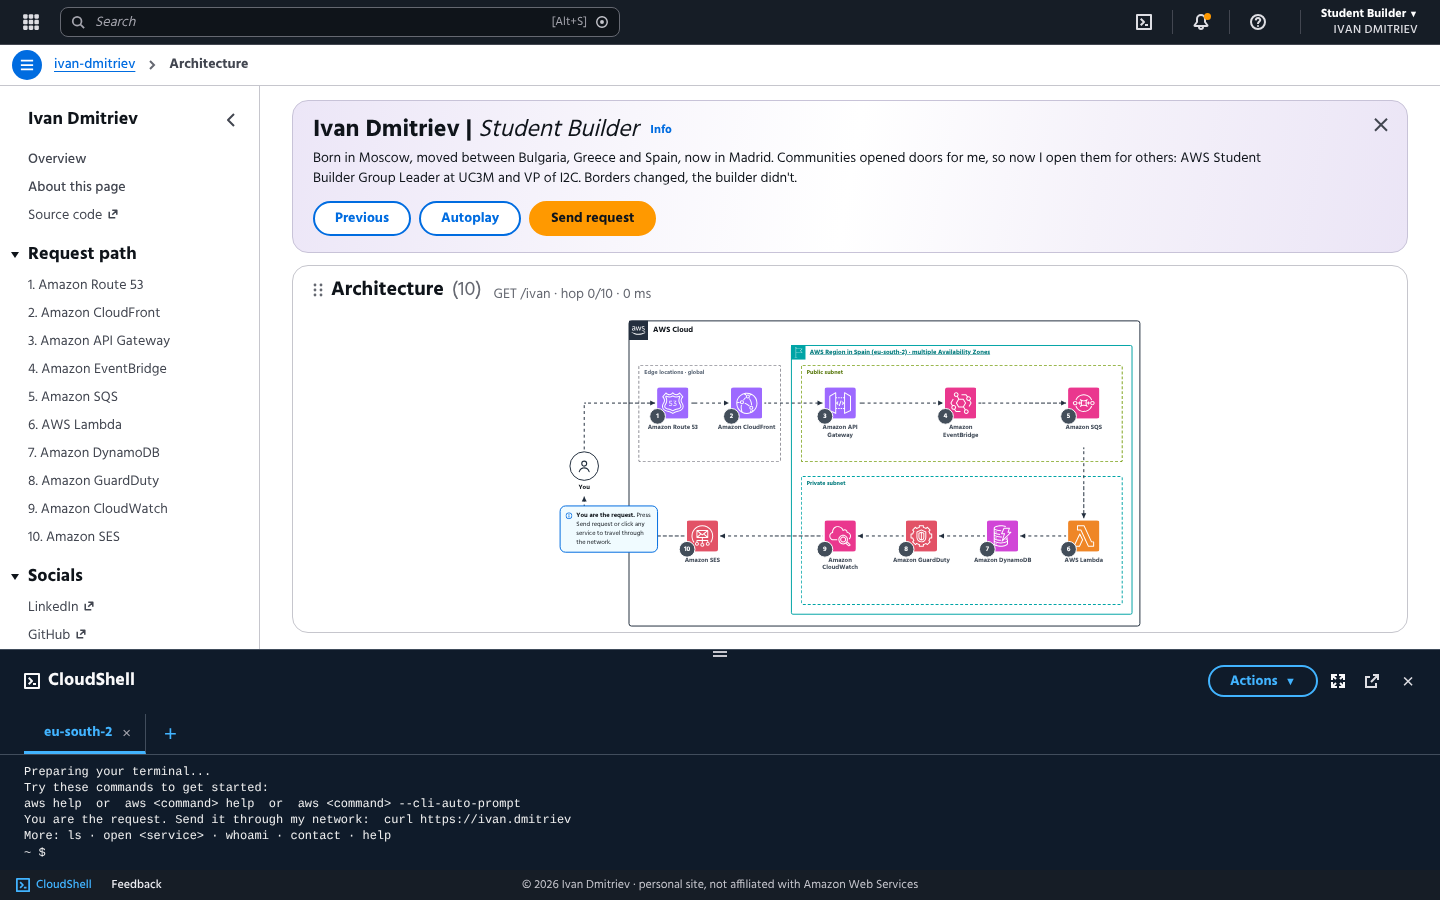
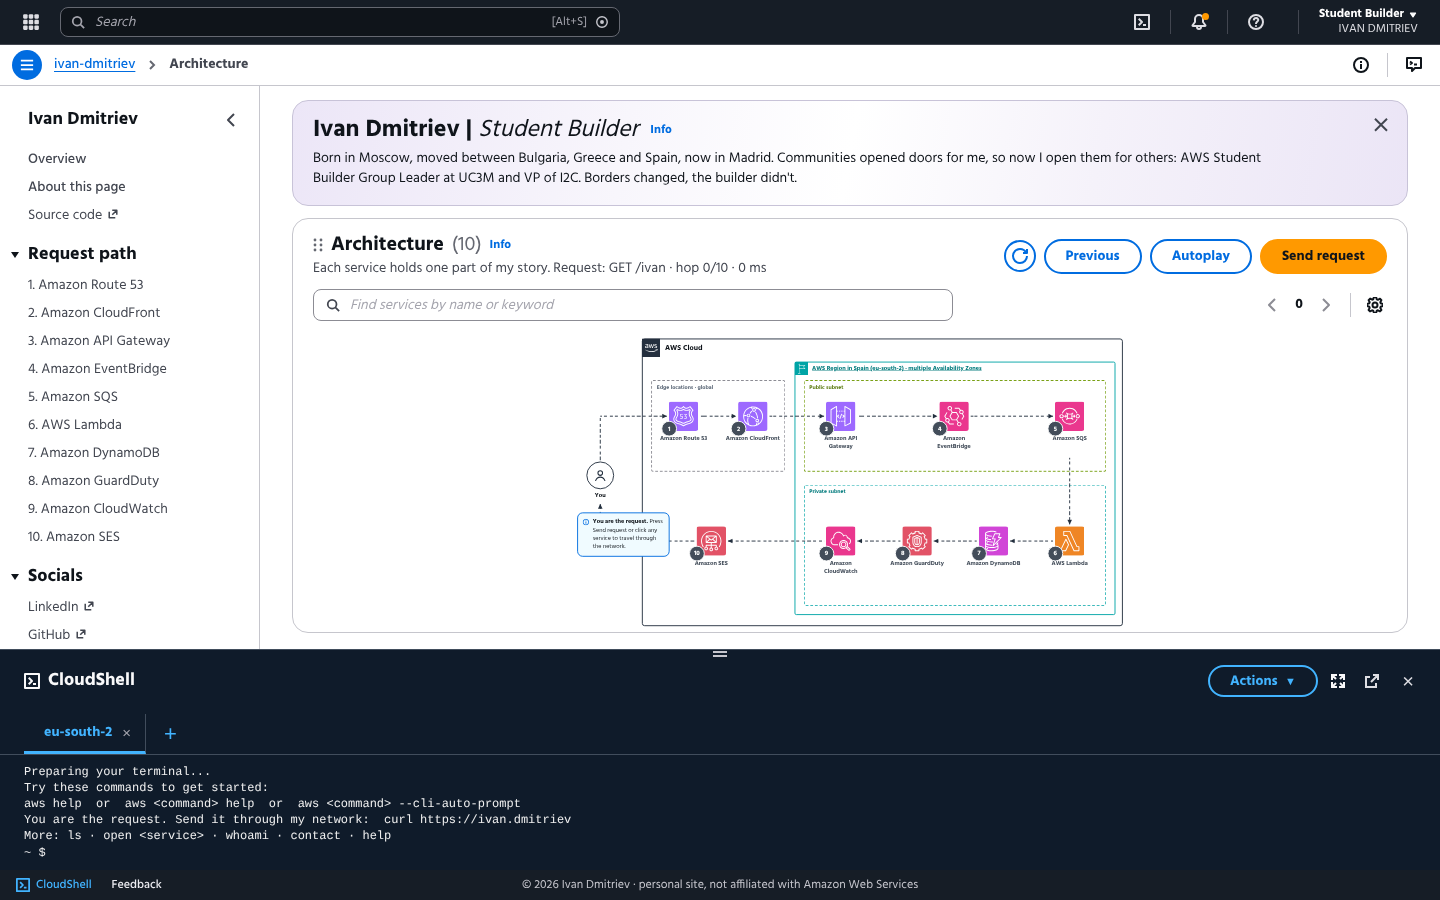
Architecture container as a console table header (actions, filter, pager); breadcrumb bar tools; account caret
Claude-Session: https://claude.ai/code/session_01SpbYpNfqmSStHB3S69pLeV

diff --git a/site/app.js b/site/app.js
@@ -83,7 +83,7 @@ const view = (v) => html`
     </div>
     <span aria-hidden="true" class="hide-m" style="width: 1px; height: 24px; background: #424650; flex: none"></span>
     <div style="position: relative; z-index: 56">
-      <button class="tnav hide-m" onClick=${v.menuAccount} style="background: none; border: 0; cursor: pointer; display: flex; flex-direction: column; align-items: flex-end; padding: 2px 6px; border-radius: 4px; color: #ffffff; font: 700 12px/15px 'Hind', 'Open Sans', sans-serif"><span>Student Builder <span style="font-size: 9px">▼</span></span><span style="font-weight: 500; color: #dedee3; letter-spacing: .02em">IVAN DMITRIEV</span></button>
+      <button class="tnav hide-m" onClick=${v.menuAccount} style="background: none; border: 0; cursor: pointer; display: flex; flex-direction: column; align-items: flex-end; padding: 2px 6px; border-radius: 4px; color: #ffffff; font: 700 12px/15px 'Hind', 'Open Sans', sans-serif"><span style="display: flex; align-items: center; gap: 4px">Student Builder <svg width="10" height="10" viewBox="0 0 16 16" aria-hidden="true"><path d="m8 11 4-6H4l4 6Z" fill="#ffffff" stroke="#ffffff" stroke-width="2" stroke-linejoin="round"></path></svg></span><span style="font-weight: 400; color: #dedee3">IVAN DMITRIEV</span></button>
       ${v.mAccount ? html`
         <div role="menu" style="position: absolute; top: 36px; z-index: 55; background: #ffffff; border-radius: 8px; box-shadow: 0px 1px 1px 1px #e9ebed, 0px 6px 36px #0007161a; padding: 6px 0; right: 0; width: 280px">
           <div style="padding: 8px 16px 10px; border-bottom: 1px solid #ebebf0"><strong style="display: block">Ivan Dmitriev</strong><span style="font-size: 12px; color: #656871">AWS Student Builder Group Leader · UC3M</span></div>
@@ -103,6 +103,10 @@ const view = (v) => html`
     <a href="#" onClick=${v.restart} style="text-decoration: underline; text-underline-offset: 3px">ivan-dmitriev</a>
     <svg width="10" height="12" viewBox="0 0 10 12" aria-hidden="true"><path d="M3 2 L7 6 L3 10" fill="none" stroke="#656871" stroke-width="2"></path></svg>
     <span style="font-weight: 700; color: #424650">Architecture</span>
+    <span style="flex: 1"></span>
+    <button onClick=${v.menuInfo} aria-label="About this page" title="About this page" style="background: none; border: 0; cursor: pointer; padding: 6px; display: flex"><svg width="16" height="16" viewBox="0 0 16 16" fill="none" stroke="#0f141a" stroke-width="2" stroke-linejoin="round" aria-hidden="true"><circle cx="8" cy="8" r="7"></circle><path d="M8 12V7M8 6V4"></path></svg></button>
+    <span aria-hidden="true" style="width: 1px; height: 24px; background: #c6c6cd"></span>
+    <button onClick=${v.toggleTerm} aria-label="CloudShell" title="CloudShell" style="background: none; border: 0; cursor: pointer; padding: 6px; display: flex"><svg width="16" height="16" viewBox="0 0 16 16" fill="none" stroke="#0f141a" stroke-width="2" stroke-linejoin="round" aria-hidden="true"><path d="M1 1h14v10H9l-3 3v-3H1V1Z"></path><path d="M4 4.5l2 1.5-2 1.5M8 7.5h3"></path></svg></button>
   </div>
   <div class="app-body" style="flex: 1 1 auto; min-height: 0; display: flex">
     
@@ -143,19 +147,53 @@ const view = (v) => html`
               </div>
             ` : null}</h1>
           <div style="margin-top: 4px; color: #0f141a; max-width: 980px">Born in Moscow, moved between Bulgaria, Greece and Spain, now in Madrid. Communities opened doors for me, so now I open them for others: AWS Student Builder Group Leader at UC3M and VP of I2C. Borders changed, the builder didn't.</div>
-          <div style="margin-top: 12px"><div style="display: flex; flex-wrap: wrap; gap: 8px">
-          <button class="btnN" onClick=${v.prev} style="min-height: 30px; padding: 4px 20px; border-radius: 20px; border: 2px solid #006ce0; background: #ffffff; color: #006ce0; font: 700 14px 'Hind', 'Open Sans', sans-serif; cursor: pointer">Previous</button>
-          <button class="btnN" onClick=${v.togglePlay} style="min-height: 30px; padding: 4px 20px; border-radius: 20px; border: 2px solid #006ce0; background: #ffffff; color: #006ce0; font: 700 14px 'Hind', 'Open Sans', sans-serif; cursor: pointer">${v.playLabel}</button>
-          <button class="btnP" onClick=${v.primary} style="min-height: 30px; padding: 4px 20px; border-radius: 20px; border: 2px solid #FF9900; background: #FF9900; color: #0f141a; font: 700 14px 'Hind', 'Open Sans', sans-serif; cursor: pointer">${v.primaryLabel}</button>
-        </div></div>
           <button onClick=${v.closeBanner} aria-label="Dismiss" style="position: absolute; right: 14px; top: 12px; background: none; border: 0; cursor: pointer; padding: 4px; display: flex"><svg width="16" height="16" viewBox="0 0 16 16" fill="none" stroke="#424650" stroke-width="2" stroke-linejoin="round" aria-hidden="true"><path d="m2 1.71 12 12M2 13.71l12-12"></path></svg></button>
         </div>
       ` : null}
       
       <section style="flex: 1 1 auto; min-height: 0; display: flex; flex-direction: column; background: #ffffff; border-radius: 16px; border: 1px solid #c6c6cd">
-        <div style="flex: none; padding: 12px 20px 4px; display: flex; flex-wrap: wrap; align-items: baseline; gap: 4px 12px">
-          <h2 style="margin: 0; font-size: 20px; line-height: 24px; font-weight: 700; display: flex; align-items: center; gap: 8px"><svg width="10" height="16" viewBox="0 0 10 16" aria-hidden="true" fill="#656871"><circle cx="2" cy="3" r="1.4"></circle><circle cx="8" cy="3" r="1.4"></circle><circle cx="2" cy="8" r="1.4"></circle><circle cx="8" cy="8" r="1.4"></circle><circle cx="2" cy="13" r="1.4"></circle><circle cx="8" cy="13" r="1.4"></circle></svg>Architecture <span style="font-weight: 400; color: #656871">(10)</span></h2>
-          <span style="color: #656871; font-size: 14px">GET /ivan · hop ${v.hopNum}/10 · ${v.ms} ms</span>
+        <div style="flex: none; padding: 14px 20px 6px; display: flex; flex-direction: column; gap: 10px">
+          <div style="display: flex; flex-wrap: wrap; align-items: center; justify-content: space-between; gap: 8px 16px">
+            <div style="min-width: 0">
+              <h2 style="margin: 0; font-size: 20px; line-height: 24px; font-weight: 700; display: flex; align-items: center; gap: 8px"><svg width="10" height="16" viewBox="0 0 10 16" aria-hidden="true" fill="#656871"><circle cx="2" cy="3" r="1.4"></circle><circle cx="8" cy="3" r="1.4"></circle><circle cx="2" cy="8" r="1.4"></circle><circle cx="8" cy="8" r="1.4"></circle><circle cx="2" cy="13" r="1.4"></circle><circle cx="8" cy="13" r="1.4"></circle></svg>Architecture <span style="font-weight: 400; color: #656871">(10)</span> <a href="#" onClick=${v.menuInfo} style="font-size: 12px; font-weight: 700">Info</a></h2>
+              <div style="margin-top: 2px; color: #424650; font-size: 14px">Each service holds one part of my story. Request: GET /ivan · hop ${v.hopNum}/10 · ${v.ms} ms</div>
+            </div>
+            <div style="display: flex; flex-wrap: wrap; align-items: center; gap: 8px">
+              <button class="btnN" onClick=${v.restart} aria-label="Restart request" title="Restart request" style="width: 32px; height: 32px; border-radius: 50%; border: 2px solid #006ce0; background: #ffffff; cursor: pointer; display: flex; align-items: center; justify-content: center; padding: 0"><svg width="16" height="16" viewBox="0 0 16 16" fill="none" stroke="#006ce0" stroke-width="2" stroke-linejoin="round" aria-hidden="true"><path d="M15 8c0 3.87-3.13 7-7 7s-7-3.13-7-7 3.13-7 7-7c2.79 0 5.2 1.63 6.33 4"></path><path d="M15 1v4h-4"></path></svg></button>
+              <button class="btnN" onClick=${v.prev} style="min-height: 30px; padding: 4px 20px; border-radius: 20px; border: 2px solid #006ce0; background: #ffffff; color: #006ce0; font: 700 14px 'Hind', 'Open Sans', sans-serif; cursor: pointer">Previous</button>
+          <button class="btnN" onClick=${v.togglePlay} style="min-height: 30px; padding: 4px 20px; border-radius: 20px; border: 2px solid #006ce0; background: #ffffff; color: #006ce0; font: 700 14px 'Hind', 'Open Sans', sans-serif; cursor: pointer">${v.playLabel}</button>
+          <button class="btnP" onClick=${v.primary} style="min-height: 30px; padding: 4px 20px; border-radius: 20px; border: 2px solid #FF9900; background: #FF9900; color: #0f141a; font: 700 14px 'Hind', 'Open Sans', sans-serif; cursor: pointer">${v.primaryLabel}</button>
+            </div>
+          </div>
+          <div style="display: flex; align-items: center; gap: 16px">
+            <div style="position: relative; flex: 0 1 640px; min-width: 0">
+              <label style="display: flex; align-items: center; gap: 8px; height: 32px; padding: 0 12px; border: 1px solid #8c8c94; border-radius: 8px; background: #ffffff; box-sizing: border-box">
+                <svg width="14" height="14" viewBox="0 0 16 16" fill="none" stroke="#424650" stroke-width="2" stroke-linejoin="round" aria-hidden="true"><path d="m11 11 4 4M7 12A5 5 0 1 0 7 2a5 5 0 0 0 0 10Z"></path></svg>
+                <input type="search" placeholder="Find services by name or keyword" aria-label="Find services" value=${v.qArch} onInput=${v.onSearch2} onKeyDown=${v.onSearchKey} style="flex: 1; min-width: 0; background: transparent; border: 0; outline: none; color: #0f141a; font: 400 14px 'Hind', 'Open Sans', sans-serif" />
+              </label>
+    ${v.hasResults2 ? html`
+      <div role="listbox" style="position: absolute; left: 0; right: 0; top: 36px; z-index: 50; background: #ffffff; border-radius: 8px; box-shadow: 0px 1px 1px 1px #e9ebed, 0px 6px 36px #0007161a; padding: 6px 0; overflow: hidden">
+        ${(v.results || []).map((res) => html`
+          <button onClick=${res.pick} style="display: flex; width: 100%; align-items: center; gap: 10px; padding: 6px 14px; background: none; border: 0; cursor: pointer; text-align: left; font: 400 14px 'Hind', 'Open Sans', sans-serif; color: #0f141a">
+            <img src=${res.icon} alt="" style="width: 24px; height: 24px; border-radius: 4px" />
+            <span style="display: flex; flex-direction: column"><strong style="font-weight: 700">${res.label}</strong><span style="font-size: 12px; color: #656871">${res.title}</span></span>
+          </button>
+        `)}
+        ${v.noResults ? html`
+          <div style="padding: 6px 14px; color: #656871">No matching services</div>
+        ` : null}
+      </div>
+    ` : null}
+            </div>
+            <span style="flex: 1"></span>
+            <div class="hide-m" style="display: flex; align-items: center; gap: 4px; color: #424650">
+              <button onClick=${v.pagePrev} aria-label="Previous hop" style="background: none; border: 0; cursor: pointer; padding: 4px; display: flex"><svg width="16" height="16" viewBox="0 0 16 16" fill="none" stroke="#8c8c94" stroke-width="2" stroke-linejoin="round" aria-hidden="true"><path d="M11 2 5 8l6 6"></path></svg></button>
+              <span style="min-width: 22px; text-align: center; font-weight: 700; color: #0f141a">${v.pageNum}</span>
+              <button onClick=${v.pageNext} aria-label="Next hop" style="background: none; border: 0; cursor: pointer; padding: 4px; display: flex"><svg width="16" height="16" viewBox="0 0 16 16" fill="none" stroke="#8c8c94" stroke-width="2" stroke-linejoin="round" aria-hidden="true"><path d="m5 2 6 6-6 6"></path></svg></button>
+              <span aria-hidden="true" style="width: 1px; height: 24px; background: #c6c6cd; margin: 0 8px"></span>
+              <button onClick=${v.menuInfo} aria-label="Preferences" title="About this page" style="background: none; border: 0; cursor: pointer; padding: 4px; display: flex"><svg width="16" height="16" viewBox="0 0 16 16" fill="none" stroke="#0f141a" stroke-width="2" stroke-linejoin="round" aria-hidden="true"><path d="M13.3 5.2l1.1-2.1-1.4-1.4-2.1 1.1c-.3-.2-.7-.3-1.1-.4L9 0H7l-.8 2.3c-.4.1-.7.2-1 .4L3.1 1.6 1.6 3.1l1.1 2.1c-.2.3-.3.7-.4 1.1L0 7v2l2.3.8c.1.4.3.7.4 1.1l-1.1 2.1 1.4 1.4 2.1-1.1c.3.2.7.3 1.1.4L7 16h2l.8-2.3c.4-.1.7-.3 1.1-.4l2.1 1.1 1.4-1.4-1.1-2.1c.2-.3.3-.7.4-1.1L16 9V7l-2.3-.8c-.1-.4-.3-.7-.4-1z"></path><circle cx="8" cy="8" r="2.5"></circle></svg></button>
+            </div>
+          </div>
         </div>
         <div class="stage" ref=${v.stageRef} style="flex: 1 1 auto; min-height: 0; position: relative; overflow: hidden">
     <div style="position: absolute; left: 50%; top: 50%; width: 1200px; height: 640px; transform: translate(-50%, -50%) scale(${v.k}); transform-origin: 50% 50%">
@@ -868,8 +906,10 @@ class Site extends Component {
     var nextLabel = step === 0 ? 'Send request' : (step >= 11 ? 'Send again' : 'Next service →');
     return Object.assign({
       nodes: nodes, segs: seg, heads: heads,
-      q: st.q, results: results, hasResults: !!q, noResults: !!q && results.length === 0,
-      onSearch: (e) => this.setState({ q: e.target.value }),
+      q: st.qw === 'arch' ? '' : st.q, qArch: st.qw === 'arch' ? st.q : '', results: results, hasResults: !!q && st.qw !== 'arch', hasResults2: !!q && st.qw === 'arch', noResults: !!q && results.length === 0,
+      onSearch: (e) => this.setState({ q: e.target.value, qw: 'top' }),
+      onSearch2: (e) => this.setState({ q: e.target.value, qw: 'arch' }),
+      pageNext: () => this.go(Math.min(11, this.state.step + 1)), pagePrev: () => this.go(Math.max(0, this.state.step - 1)), pageNum: st.step > 10 ? 10 : st.step,
       onSearchKey: (e) => { if (e.key === 'Enter' && results.length) results[0].pick(); if (e.key === 'Escape') this.setState({ q: '' }); },
       k: this.state.k.toFixed(4),
       stageRef: (el) => { this.stageEl = el; if (el) { setTimeout(this.onResize, 0); if (window.ResizeObserver && !this.ro) { this.ro = new ResizeObserver(() => this.onResize()); this.ro.observe(el); } } },
